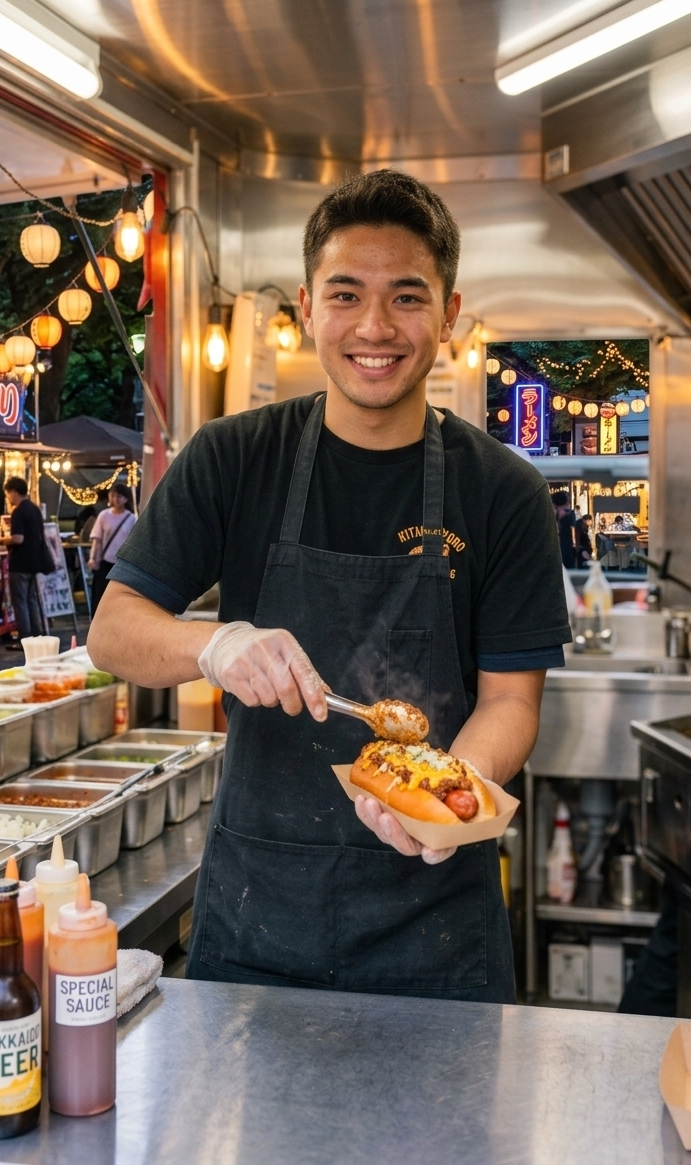
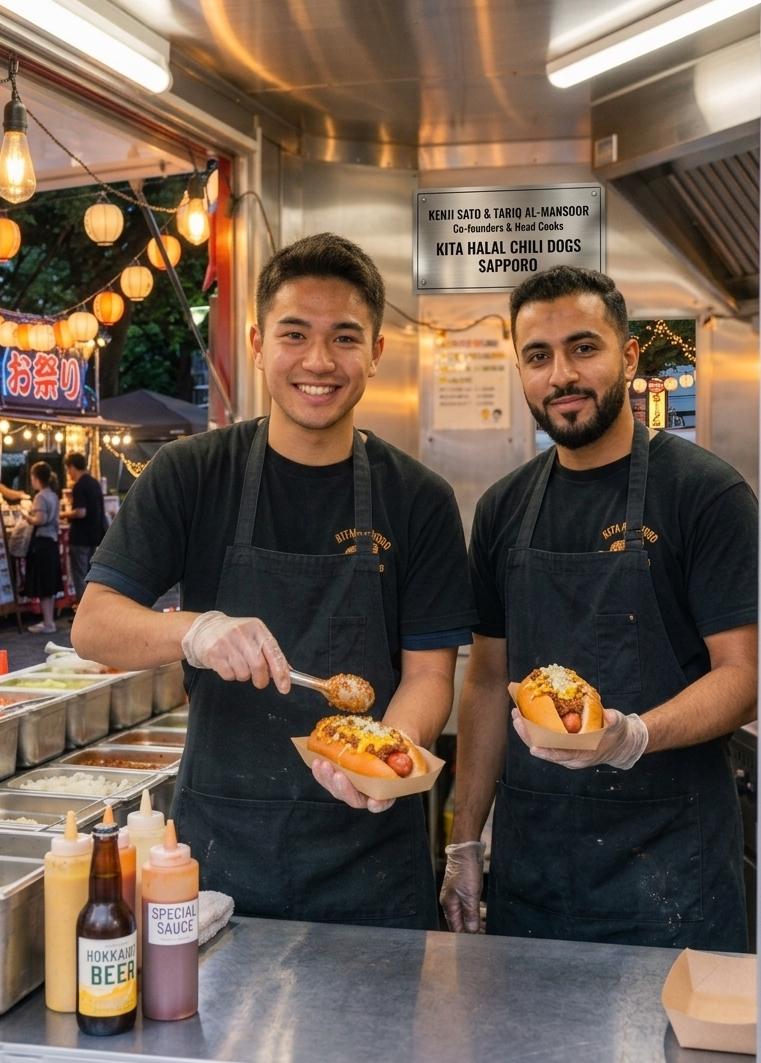
adding random display menu item to Hero section

diff --git a/project/resources/js/Components/Public/Hero.vue b/project/resources/js/Components/Public/Hero.vue
@@ -6,11 +6,19 @@ const props = defineProps({
         type: Object,
         default: null,
     },
+    heroItem: {
+        type: Object,
+        default: null,
+    },
     upcomingEvent: {
         type: Object,
         default: null,
     },
 });
+
+// Fallbacks if no matching record is found in DB
+const headlineText = computed(() => props.heroItem?.name ?? 'Slow-Simmered Halal Chili & Hokkaido Brioche');
+const descriptionText = computed(() => props.heroItem?.description ?? 'Steamed-to-order halal beef franks topped with 12-hour spiced chili con carne, freshly grated Hokkaido cheddar, and locally baked toasted milk buns. Crafted with calm precision on the streets of Sapporo.');
 
 const money = (n) => `¥${Number(n).toLocaleString('en-US')}`;
 
@@ -19,7 +27,7 @@ const heroBadge = computed(() => {
     if (!p) return '';
     if (p.badge_type === 'limited_batch') return 'Limited Batch';
     if (p.badge_type === 'none') return '';
-    return 'Halal Certified';
+    return 'Muslim Friendly Certified';
 });
 </script>
 
@@ -57,18 +65,16 @@ const heroBadge = computed(() => {
                         <span>{{ upcomingEvent.event_name }} — {{ upcomingEvent.location_name }}</span>
                     </div>
 
-                    <!-- Headline Overlay -->
+                    <!-- Dynamic Headline Overlay -->
                     <h1 id="hero-headline"
                         class="font-heading text-4xl font-bold leading-[1.12] tracking-tight text-warm-white sm:text-5xl lg:text-6xl">
-                        Slow-Simmered Halal Chili &amp; Hokkaido Brioche
+                        {{ headlineText }}
                     </h1>
 
-                    <!-- Subheadline Overlay -->
+                    <!-- Dynamic Subheadline Overlay -->
                     <p id="hero-subheadline"
                         class="max-w-2xl text-lg font-normal leading-relaxed text-warm-white/85 sm:text-xl">
-                        Steamed-to-order halal beef franks topped with 12-hour spiced chili con carne,
-                        freshly grated Hokkaido cheddar, and locally baked toasted milk buns.
-                        Crafted with calm precision on the streets of Sapporo.
+                        {{ descriptionText }}
                     </p>
 
                     <!-- Actions & CTAs Overlay -->

diff --git a/project/resources/js/Pages/Welcome.vue b/project/resources/js/Pages/Welcome.vue
@@ -24,6 +24,10 @@ defineProps({
         type: Object,
         default: null,
     },
+    heroItem: {
+        type: Object,
+        default: null,
+    },
     upcomingEvent: {
         type: Object,
         default: null,
@@ -34,7 +38,7 @@ defineProps({
 <template>
     <!-- Public page composed from section components (Sprint 3 decomposition). -->
     <PublicLayout title="Welcome | Halal Chili Dog Sapporo">
-        <Hero :popular-item="popularItem" :upcoming-event="upcomingEvent" />
+        <Hero :popular-item="popularItem" :hero-item="heroItem" :upcoming-event="upcomingEvent" />
 
         <LocationSchedule :location="todayLocation" :next-location="nextLocation" />
 

diff --git a/project/routes/web.php b/project/routes/web.php
@@ -20,6 +20,12 @@ Route::get('/', function () {
         'nextLocation' => LocationEntry::nextScheduled(),
         'menuItems' => MenuItem::publicMenu(),
         'popularItem' => MenuItem::popularItem(),
+        // Query an active, non-popular menu item for the hero overlay text
+        'heroItem' => MenuItem::query()
+            ->where('is_active', true)
+            ->where('is_popular', false)
+            ->inRandomOrder()
+            ->first(),
         'upcomingEvent' => LocationEntry::query()
             ->where('is_event', true)
             ->whereDate('schedule_date', '>=', now()->toDateString())
